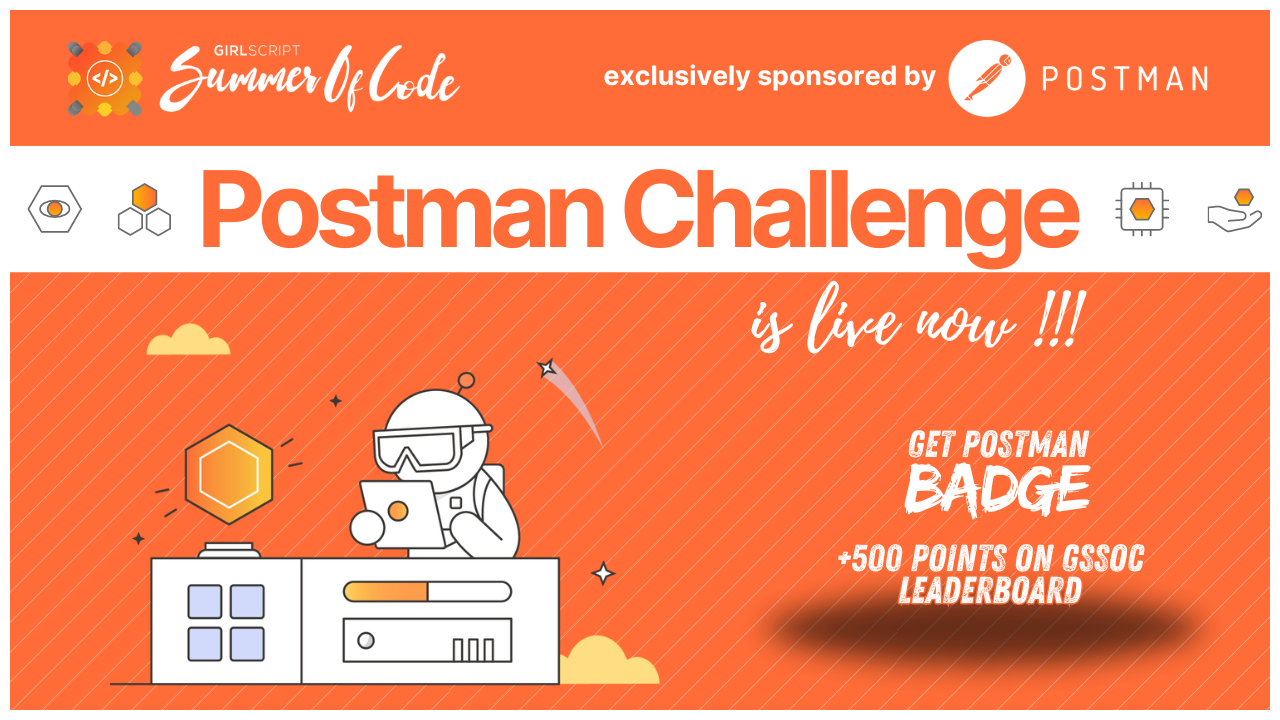
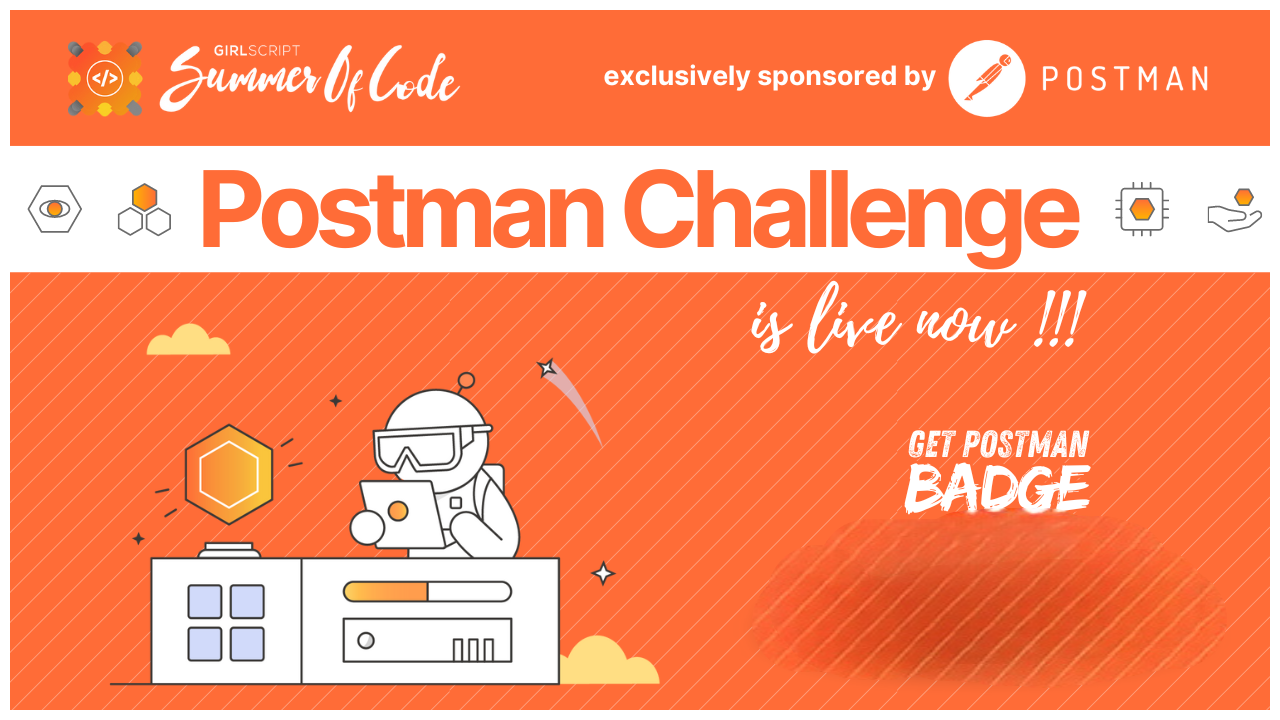
postman

Changed region(s): [[0.5938, 0.7028, 0.9375, 0.9472]]

diff --git a/components/PopupBanner.js b/components/PopupBanner.js
@@ -24,7 +24,7 @@ const PopupBanner = ({ onClose }) => {
             Postman Challenge is live now!!!
           </p>
           <p className="text-lg text-gray-700">
-            Get Postman Badge +500 points on GSSoC Leaderboard
+            Get Postman Badge
           </p>
 
           <div className="mt-4 gap-5 flex max-md:flex-col w-full items-center justify-center">
